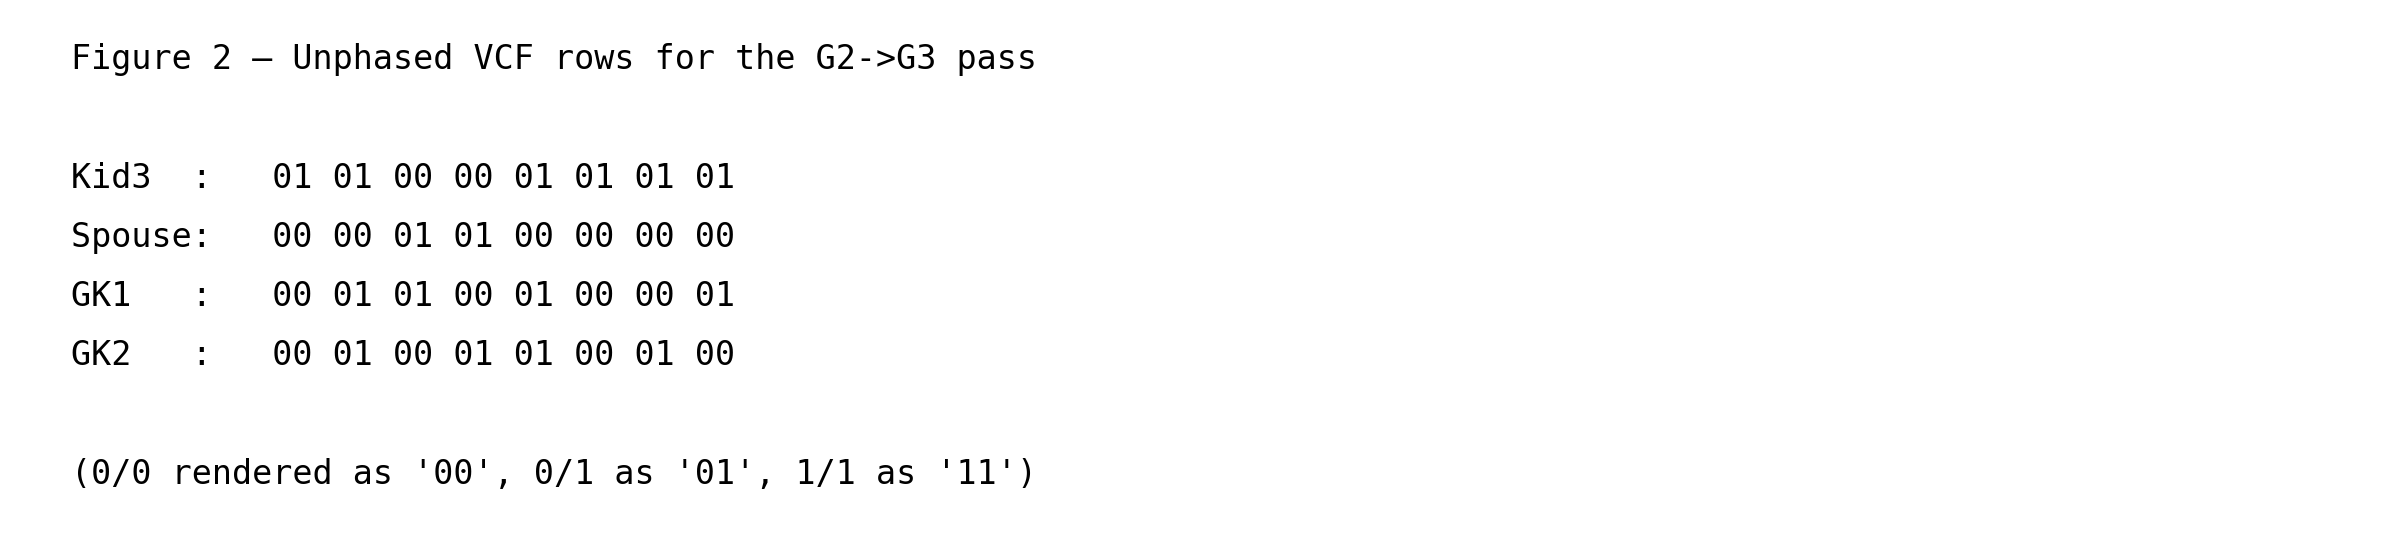
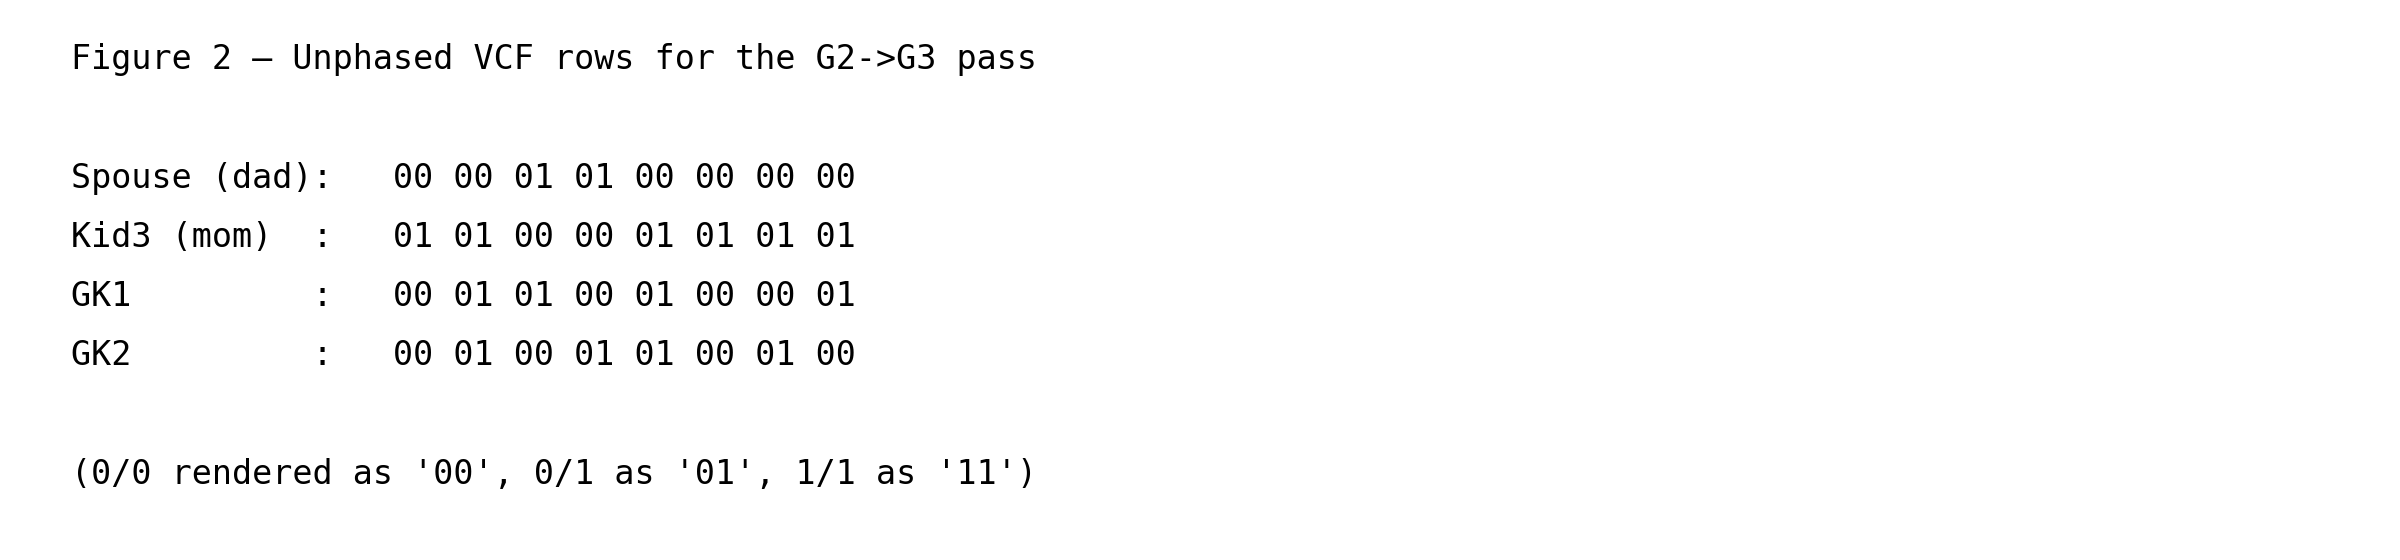
Reorder Figure 2 rows as Dad/Mom/GK1/GK2 in three_generations.md
Spouse contributes the grandchildren's paternal slot (E/F) and
Kid3 contributes the maternal slot, so Spouse is the dad and Kid3
is the mom. Put Spouse first and label the two parental rows
"Spouse (dad)" / "Kid3 (mom)" to match.

diff --git a/wiki/generate_wiki.py b/wiki/generate_wiki.py
@@ -2119,10 +2119,10 @@ def component_2_three_generations(out_dir: Path) -> None:
     body_2 = [
         "Figure 2 — Unphased VCF rows for the G2->G3 pass",
         "",
-        "Kid3  :   " + " ".join(_fmt_gt(g) for g in kid3_unphased),
-        "Spouse:   " + " ".join(_fmt_gt(g) for g in spouse_unphased),
-        "GK1   :   " + " ".join(_fmt_gt(g) for g in gk_unphased["GK1"]),
-        "GK2   :   " + " ".join(_fmt_gt(g) for g in gk_unphased["GK2"]),
+        "Spouse (dad):   " + " ".join(_fmt_gt(g) for g in spouse_unphased),
+        "Kid3 (mom)  :   " + " ".join(_fmt_gt(g) for g in kid3_unphased),
+        "GK1         :   " + " ".join(_fmt_gt(g) for g in gk_unphased["GK1"]),
+        "GK2         :   " + " ".join(_fmt_gt(g) for g in gk_unphased["GK2"]),
         "",
         "(0/0 rendered as '00', 0/1 as '01', 1/1 as '11')",
     ]

diff --git a/wiki/three_generations/three_generations.md b/wiki/three_generations/three_generations.md
@@ -12,7 +12,7 @@ become visible once a third generation is in the pedigree:
 1. `gtg-ped-map` does not have a separate "G2→G3 pass" bolted on top
    of a G1→G2 pass. The *one* operation on the nuclear-family page
    that really is a walk over the pedigree —
-   [`track_alleles_through_pedigree`](https://github.com/Platinum-Pedigree-Consortium/Platinum-Pedigree-Inheritance/blob/850d84268b52f29d19c3ca456c8e9816a4a45c0d/code/rust/src/bin/map_builder.rs#L295), which
+   [`track_alleles_through_pedigree`](https://github.com/Platinum-Pedigree-Consortium/Platinum-Pedigree-Inheritance/blob/fc39be653e81981f24a58895fc5f218ab98dff36/code/rust/src/bin/map_builder.rs#L295), which
    performs [Step 1](../nuclear_family/nuclear_family.md#3-informative-site-detection-founder-letter-tagging-and-haplotype-inference-within-a-linkage-block)
    (flag, per (parent, spouse, child) triple, the sites at which the
    parent is heterozygous and the spouse is homozygous — the sites
@@ -35,13 +35,13 @@ become visible once a third generation is in the pedigree:
 
    It is worth emphasising that the rest of the nuclear-family
    pipeline is **not** part of this walk. Sibship backfilling
-   ([`backfill_sibs`](https://github.com/Platinum-Pedigree-Consortium/Platinum-Pedigree-Inheritance/blob/850d84268b52f29d19c3ca456c8e9816a4a45c0d/code/rust/src/bin/map_builder.rs#L804)) runs once per VCF
+   ([`backfill_sibs`](https://github.com/Platinum-Pedigree-Consortium/Platinum-Pedigree-Inheritance/blob/fc39be653e81981f24a58895fc5f218ab98dff36/code/rust/src/bin/map_builder.rs#L804)) runs once per VCF
    record at the whole-family level, right after the walk, consuming
    its output. The flip pass
-   ([`perform_flips_in_place`](https://github.com/Platinum-Pedigree-Consortium/Platinum-Pedigree-Inheritance/blob/850d84268b52f29d19c3ca456c8e9816a4a45c0d/code/rust/src/bin/map_builder.rs#L702)), block collapse
-   ([`collapse_identical_iht`](https://github.com/Platinum-Pedigree-Consortium/Platinum-Pedigree-Inheritance/blob/850d84268b52f29d19c3ca456c8e9816a4a45c0d/code/rust/src/bin/map_builder.rs#L385)) and gap-fill
-   ([`fill_missing_values`](https://github.com/Platinum-Pedigree-Consortium/Platinum-Pedigree-Inheritance/blob/850d84268b52f29d19c3ca456c8e9816a4a45c0d/code/rust/src/bin/map_builder.rs#L617) then
-   [`fill_missing_values_by_neighbor`](https://github.com/Platinum-Pedigree-Consortium/Platinum-Pedigree-Inheritance/blob/850d84268b52f29d19c3ca456c8e9816a4a45c0d/code/rust/src/bin/map_builder.rs#L540)) are
+   ([`perform_flips_in_place`](https://github.com/Platinum-Pedigree-Consortium/Platinum-Pedigree-Inheritance/blob/fc39be653e81981f24a58895fc5f218ab98dff36/code/rust/src/bin/map_builder.rs#L702)), block collapse
+   ([`collapse_identical_iht`](https://github.com/Platinum-Pedigree-Consortium/Platinum-Pedigree-Inheritance/blob/fc39be653e81981f24a58895fc5f218ab98dff36/code/rust/src/bin/map_builder.rs#L385)) and gap-fill
+   ([`fill_missing_values`](https://github.com/Platinum-Pedigree-Consortium/Platinum-Pedigree-Inheritance/blob/fc39be653e81981f24a58895fc5f218ab98dff36/code/rust/src/bin/map_builder.rs#L617) then
+   [`fill_missing_values_by_neighbor`](https://github.com/Platinum-Pedigree-Consortium/Platinum-Pedigree-Inheritance/blob/fc39be653e81981f24a58895fc5f218ab98dff36/code/rust/src/bin/map_builder.rs#L540)) are
    run later still — in that execution order, with
    `perform_flips_in_place` invoked three times in total, once
    before collapse and again after each gap-fill step — as
@@ -62,9 +62,9 @@ become visible once a third generation is in the pedigree:
    that the ancestral transition appears in *both* while the de novo
    one appears in only *one*.
 
-All line numbers refer to commit `850d842`. As in the other
+All line numbers refer to commit `fc39be6`. As in the other
 walkthrough pages, each function link is followed by its call site in
-`main()` in [`map_builder.rs`](https://github.com/Platinum-Pedigree-Consortium/Platinum-Pedigree-Inheritance/blob/850d84268b52f29d19c3ca456c8e9816a4a45c0d/code/rust/src/bin/map_builder.rs#L989) so you can step
+`main()` in [`map_builder.rs`](https://github.com/Platinum-Pedigree-Consortium/Platinum-Pedigree-Inheritance/blob/fc39be653e81981f24a58895fc5f218ab98dff36/code/rust/src/bin/map_builder.rs#L989) so you can step
 through the driver source in parallel.
 
 The toy simulation spans 8 VCF sites. Everything below
@@ -89,7 +89,7 @@ founder, adding the **G2→G3** layer `(Kid3, Spouse) → {GK1, GK2}`.
 Kid1 and Kid2 are not shown in the genotype figures below, but they
 are still part of the pedigree the algorithm processes, and their
 presence is load-bearing: the [multi-child guard in
-`backfill_sibs`](https://github.com/Platinum-Pedigree-Consortium/Platinum-Pedigree-Inheritance/blob/850d84268b52f29d19c3ca456c8e9816a4a45c0d/code/rust/src/bin/map_builder.rs#L818) disables partition inference
+`backfill_sibs`](https://github.com/Platinum-Pedigree-Consortium/Platinum-Pedigree-Inheritance/blob/fc39be653e81981f24a58895fc5f218ab98dff36/code/rust/src/bin/map_builder.rs#L818) disables partition inference
 for single-child families, so Kid3's `A`/`B` paternal labels and `C`
 maternal label exist only because Kid1 and Kid2 anchor the partition
 at each G1-informative site. Pulling them out of the pedigree would
@@ -102,9 +102,9 @@ Transmission in the toy simulation:
   the nuclear-family page: paternal slot letter `A` on sites 0–3 and
   `B` on sites 4–7; maternal slot letter `C` throughout.
 - **Spouse**, a founder, is handed the fresh letter pair `(E, F)` by
-  [`Iht::new`](https://github.com/Platinum-Pedigree-Consortium/Platinum-Pedigree-Inheritance/blob/850d84268b52f29d19c3ca456c8e9816a4a45c0d/code/rust/src/iht.rs#L172) (driver calls at
-  [`map_builder.rs:1059`](https://github.com/Platinum-Pedigree-Consortium/Platinum-Pedigree-Inheritance/blob/850d84268b52f29d19c3ca456c8e9816a4a45c0d/code/rust/src/bin/map_builder.rs#L1059) for the master
-  template and [`map_builder.rs:1111`](https://github.com/Platinum-Pedigree-Consortium/Platinum-Pedigree-Inheritance/blob/850d84268b52f29d19c3ca456c8e9816a4a45c0d/code/rust/src/bin/map_builder.rs#L1111) per VCF
+  [`Iht::new`](https://github.com/Platinum-Pedigree-Consortium/Platinum-Pedigree-Inheritance/blob/fc39be653e81981f24a58895fc5f218ab98dff36/code/rust/src/iht.rs#L172) (driver calls at
+  [`map_builder.rs:1059`](https://github.com/Platinum-Pedigree-Consortium/Platinum-Pedigree-Inheritance/blob/fc39be653e81981f24a58895fc5f218ab98dff36/code/rust/src/bin/map_builder.rs#L1059) for the master
+  template and [`map_builder.rs:1111`](https://github.com/Platinum-Pedigree-Consortium/Platinum-Pedigree-Inheritance/blob/fc39be653e81981f24a58895fc5f218ab98dff36/code/rust/src/bin/map_builder.rs#L1111) per VCF
   site), identically to how Dad and Mom were handed `(A, B)` / `(C, D)`
   at the start of the nuclear-family walkthrough.
 - **GK1** inherits Spouse's `E` homolog on the paternal slot, plus a
@@ -128,11 +128,11 @@ and are not repeated here.
 ## 3. One ancestor-first walk, two triples
 
 The routine
-[`track_alleles_through_pedigree`](https://github.com/Platinum-Pedigree-Consortium/Platinum-Pedigree-Inheritance/blob/850d84268b52f29d19c3ca456c8e9816a4a45c0d/code/rust/src/bin/map_builder.rs#L295) (driver call
-at [`map_builder.rs:1116`](https://github.com/Platinum-Pedigree-Consortium/Platinum-Pedigree-Inheritance/blob/850d84268b52f29d19c3ca456c8e9816a4a45c0d/code/rust/src/bin/map_builder.rs#L1116)) is called once
+[`track_alleles_through_pedigree`](https://github.com/Platinum-Pedigree-Consortium/Platinum-Pedigree-Inheritance/blob/fc39be653e81981f24a58895fc5f218ab98dff36/code/rust/src/bin/map_builder.rs#L295) (driver call
+at [`map_builder.rs:1116`](https://github.com/Platinum-Pedigree-Consortium/Platinum-Pedigree-Inheritance/blob/fc39be653e81981f24a58895fc5f218ab98dff36/code/rust/src/bin/map_builder.rs#L1116)) is called once
 per VCF record and walks every (parent, spouse, child) triple in
 ancestor-first depth order given by
-[`family.get_individual_depths()`](https://github.com/Platinum-Pedigree-Consortium/Platinum-Pedigree-Inheritance/blob/850d84268b52f29d19c3ca456c8e9816a4a45c0d/code/rust/src/ped.rs#L155).
+[`family.get_individual_depths()`](https://github.com/Platinum-Pedigree-Consortium/Platinum-Pedigree-Inheritance/blob/fc39be653e81981f24a58895fc5f218ab98dff36/code/rust/src/ped.rs#L155).
 
 *Depth order* here means: every founder has depth 0, and every
 non-founder has depth one greater than the deeper of its two
@@ -143,7 +143,7 @@ the list of individuals sorted by depth ascending (ties broken
 alphabetically by ID). Iterating triples in
 that order guarantees that when a triple `(P, S) → {C ...}` is
 visited, both `P` and `S` have already been handled — either as
-founders whose slot pairs were pre-filled by [`Iht::new`](https://github.com/Platinum-Pedigree-Consortium/Platinum-Pedigree-Inheritance/blob/850d84268b52f29d19c3ca456c8e9816a4a45c0d/code/rust/src/iht.rs#L172),
+founders whose slot pairs were pre-filled by [`Iht::new`](https://github.com/Platinum-Pedigree-Consortium/Platinum-Pedigree-Inheritance/blob/fc39be653e81981f24a58895fc5f218ab98dff36/code/rust/src/iht.rs#L172),
 or as children of a shallower triple whose letters were written by
 a previous iteration — so their slot pairs already hold the
 letters the current triple needs to read. For this pedigree the
@@ -161,12 +161,12 @@ GK1 = GK2 = 2, and the walk visits two triples in this order:
 The only thing that changes between the two triples is whose slot
 pair `find_valid_char` / `get_iht_markers` reads when tagging
 carriers. In the first triple it reads Dad's `(A, B)` and Mom's
-`(C, D)` — static founder pairs that [`Iht::new`](https://github.com/Platinum-Pedigree-Consortium/Platinum-Pedigree-Inheritance/blob/850d84268b52f29d19c3ca456c8e9816a4a45c0d/code/rust/src/iht.rs#L172)
+`(C, D)` — static founder pairs that [`Iht::new`](https://github.com/Platinum-Pedigree-Consortium/Platinum-Pedigree-Inheritance/blob/fc39be653e81981f24a58895fc5f218ab98dff36/code/rust/src/iht.rs#L172)
 pre-filled at startup. In the second it reads *Kid3's* slot pair,
-which [`track_alleles_through_pedigree`](https://github.com/Platinum-Pedigree-Consortium/Platinum-Pedigree-Inheritance/blob/850d84268b52f29d19c3ca456c8e9816a4a45c0d/code/rust/src/bin/map_builder.rs#L295) itself
-wrote during the first triple. [`get_iht_markers`](https://github.com/Platinum-Pedigree-Consortium/Platinum-Pedigree-Inheritance/blob/850d84268b52f29d19c3ca456c8e9816a4a45c0d/code/rust/src/bin/map_builder.rs#L274)
+which [`track_alleles_through_pedigree`](https://github.com/Platinum-Pedigree-Consortium/Platinum-Pedigree-Inheritance/blob/fc39be653e81981f24a58895fc5f218ab98dff36/code/rust/src/bin/map_builder.rs#L295) itself
+wrote during the first triple. [`get_iht_markers`](https://github.com/Platinum-Pedigree-Consortium/Platinum-Pedigree-Inheritance/blob/fc39be653e81981f24a58895fc5f218ab98dff36/code/rust/src/bin/map_builder.rs#L274)
 (called from inside the walk at
-[`map_builder.rs:328`](https://github.com/Platinum-Pedigree-Consortium/Platinum-Pedigree-Inheritance/blob/850d84268b52f29d19c3ca456c8e9816a4a45c0d/code/rust/src/bin/map_builder.rs#L328)) is what reads it back
+[`map_builder.rs:328`](https://github.com/Platinum-Pedigree-Consortium/Platinum-Pedigree-Inheritance/blob/fc39be653e81981f24a58895fc5f218ab98dff36/code/rust/src/bin/map_builder.rs#L328)) is what reads it back
 for the second triple.
 
 One point worth stating explicitly before moving on: **non-founder
@@ -183,10 +183,10 @@ classical inheritance vector of Lander & Green.)
 Figure 3 shows the letters written on the two grandchildren's
 slots at the **informative sites only** (non-informative sites are
 rendered as `.`). This is the state of the `Iht` grid for triple 2
-after [`track_alleles_through_pedigree`](https://github.com/Platinum-Pedigree-Consortium/Platinum-Pedigree-Inheritance/blob/850d84268b52f29d19c3ca456c8e9816a4a45c0d/code/rust/src/bin/map_builder.rs#L295) has
+after [`track_alleles_through_pedigree`](https://github.com/Platinum-Pedigree-Consortium/Platinum-Pedigree-Inheritance/blob/fc39be653e81981f24a58895fc5f218ab98dff36/code/rust/src/bin/map_builder.rs#L295) has
 tagged the carrier homolog at each informative site (Step 2 of
 [nuclear_family §3](../nuclear_family/nuclear_family.md#3-informative-site-detection-founder-letter-tagging-and-haplotype-inference-within-a-linkage-block))
-*and* [`backfill_sibs`](https://github.com/Platinum-Pedigree-Consortium/Platinum-Pedigree-Inheritance/blob/850d84268b52f29d19c3ca456c8e9816a4a45c0d/code/rust/src/bin/map_builder.rs#L804) has written the
+*and* [`backfill_sibs`](https://github.com/Platinum-Pedigree-Consortium/Platinum-Pedigree-Inheritance/blob/fc39be653e81981f24a58895fc5f218ab98dff36/code/rust/src/bin/map_builder.rs#L804) has written the
 parent's other letter onto the non-carrier grandchild (Step 3a).
 That is why, at every Spouse-informative site, both `E` and `F`
 appear — one tagged directly as the carrier of Spouse's unique
@@ -212,12 +212,12 @@ indicator rows mark:
   fixed `(C, D)`).
 
 Everything after Step 2 runs *outside* the triple walk and is not
-re-walked here. [`backfill_sibs`](https://github.com/Platinum-Pedigree-Consortium/Platinum-Pedigree-Inheritance/blob/850d84268b52f29d19c3ca456c8e9816a4a45c0d/code/rust/src/bin/map_builder.rs#L804) is applied
+re-walked here. [`backfill_sibs`](https://github.com/Platinum-Pedigree-Consortium/Platinum-Pedigree-Inheritance/blob/fc39be653e81981f24a58895fc5f218ab98dff36/code/rust/src/bin/map_builder.rs#L804) is applied
 once per VCF record to the full family `Iht` after
-[`track_alleles_through_pedigree`](https://github.com/Platinum-Pedigree-Consortium/Platinum-Pedigree-Inheritance/blob/850d84268b52f29d19c3ca456c8e9816a4a45c0d/code/rust/src/bin/map_builder.rs#L295) returns;
+[`track_alleles_through_pedigree`](https://github.com/Platinum-Pedigree-Consortium/Platinum-Pedigree-Inheritance/blob/fc39be653e81981f24a58895fc5f218ab98dff36/code/rust/src/bin/map_builder.rs#L295) returns;
 the per-site flip pass in
-[`perform_flips_in_place`](https://github.com/Platinum-Pedigree-Consortium/Platinum-Pedigree-Inheritance/blob/850d84268b52f29d19c3ca456c8e9816a4a45c0d/code/rust/src/bin/map_builder.rs#L702) and block collapse
-in [`collapse_identical_iht`](https://github.com/Platinum-Pedigree-Consortium/Platinum-Pedigree-Inheritance/blob/850d84268b52f29d19c3ca456c8e9816a4a45c0d/code/rust/src/bin/map_builder.rs#L385) (together with
+[`perform_flips_in_place`](https://github.com/Platinum-Pedigree-Consortium/Platinum-Pedigree-Inheritance/blob/fc39be653e81981f24a58895fc5f218ab98dff36/code/rust/src/bin/map_builder.rs#L702) and block collapse
+in [`collapse_identical_iht`](https://github.com/Platinum-Pedigree-Consortium/Platinum-Pedigree-Inheritance/blob/fc39be653e81981f24a58895fc5f218ab98dff36/code/rust/src/bin/map_builder.rs#L385) (together with
 the two gap-fills discussed in §5) run later still, as global
 passes over the pooled record-by-individual grid. Adding triple 2
 to the pedigree widens that grid by two rows (GK1, GK2) and leaves
@@ -261,8 +261,8 @@ The Rust pipeline stores it per-individual rather than
 concatenated because that lay-out makes the (parent, spouse,
 child) triple a natural unit of work, and because the cross-site
 post-processing passes
-([`collapse_identical_iht`](https://github.com/Platinum-Pedigree-Consortium/Platinum-Pedigree-Inheritance/blob/850d84268b52f29d19c3ca456c8e9816a4a45c0d/code/rust/src/bin/map_builder.rs#L385), the two gap-fills,
-and [`perform_flips_in_place`](https://github.com/Platinum-Pedigree-Consortium/Platinum-Pedigree-Inheritance/blob/850d84268b52f29d19c3ca456c8e9816a4a45c0d/code/rust/src/bin/map_builder.rs#L702)) run
+([`collapse_identical_iht`](https://github.com/Platinum-Pedigree-Consortium/Platinum-Pedigree-Inheritance/blob/fc39be653e81981f24a58895fc5f218ab98dff36/code/rust/src/bin/map_builder.rs#L385), the two gap-fills,
+and [`perform_flips_in_place`](https://github.com/Platinum-Pedigree-Consortium/Platinum-Pedigree-Inheritance/blob/fc39be653e81981f24a58895fc5f218ab98dff36/code/rust/src/bin/map_builder.rs#L702)) run
 per-individual-column across records. The underlying object is
 the same.
 
@@ -292,7 +292,7 @@ model. Per site, §3's triple walk deduces the inheritance vector
 *deterministically* from Mendelian rules: the unique child
 carrying the parent's rare allele is the carrier, its
 informative-slot letter is fixed, and
-[`backfill_sibs`](https://github.com/Platinum-Pedigree-Consortium/Platinum-Pedigree-Inheritance/blob/850d84268b52f29d19c3ca456c8e9816a4a45c0d/code/rust/src/bin/map_builder.rs#L804) writes the parent's other
+[`backfill_sibs`](https://github.com/Platinum-Pedigree-Consortium/Platinum-Pedigree-Inheritance/blob/fc39be653e81981f24a58895fc5f218ab98dff36/code/rust/src/bin/map_builder.rs#L804) writes the parent's other
 letter on the non-carriers. No emission probabilities; no
 integration over founder alleles. Across sites, the
 flip / collapse / gap-fill pipeline (listed at the end of §3)
@@ -315,18 +315,18 @@ done with them.
 
 As emphasised in the intro, the flip, block-collapse and gap-fill
 routines — in driver-call order,
-[`perform_flips_in_place`](https://github.com/Platinum-Pedigree-Consortium/Platinum-Pedigree-Inheritance/blob/850d84268b52f29d19c3ca456c8e9816a4a45c0d/code/rust/src/bin/map_builder.rs#L702) (at
-[`map_builder.rs:1135`](https://github.com/Platinum-Pedigree-Consortium/Platinum-Pedigree-Inheritance/blob/850d84268b52f29d19c3ca456c8e9816a4a45c0d/code/rust/src/bin/map_builder.rs#L1135)),
-[`collapse_identical_iht`](https://github.com/Platinum-Pedigree-Consortium/Platinum-Pedigree-Inheritance/blob/850d84268b52f29d19c3ca456c8e9816a4a45c0d/code/rust/src/bin/map_builder.rs#L385) (at
-[`map_builder.rs:1191`](https://github.com/Platinum-Pedigree-Consortium/Platinum-Pedigree-Inheritance/blob/850d84268b52f29d19c3ca456c8e9816a4a45c0d/code/rust/src/bin/map_builder.rs#L1191)),
+[`perform_flips_in_place`](https://github.com/Platinum-Pedigree-Consortium/Platinum-Pedigree-Inheritance/blob/fc39be653e81981f24a58895fc5f218ab98dff36/code/rust/src/bin/map_builder.rs#L702) (at
+[`map_builder.rs:1135`](https://github.com/Platinum-Pedigree-Consortium/Platinum-Pedigree-Inheritance/blob/fc39be653e81981f24a58895fc5f218ab98dff36/code/rust/src/bin/map_builder.rs#L1135)),
+[`collapse_identical_iht`](https://github.com/Platinum-Pedigree-Consortium/Platinum-Pedigree-Inheritance/blob/fc39be653e81981f24a58895fc5f218ab98dff36/code/rust/src/bin/map_builder.rs#L385) (at
+[`map_builder.rs:1191`](https://github.com/Platinum-Pedigree-Consortium/Platinum-Pedigree-Inheritance/blob/fc39be653e81981f24a58895fc5f218ab98dff36/code/rust/src/bin/map_builder.rs#L1191)),
 `perform_flips_in_place` again (at
-[`map_builder.rs:1193`](https://github.com/Platinum-Pedigree-Consortium/Platinum-Pedigree-Inheritance/blob/850d84268b52f29d19c3ca456c8e9816a4a45c0d/code/rust/src/bin/map_builder.rs#L1193)),
-[`fill_missing_values`](https://github.com/Platinum-Pedigree-Consortium/Platinum-Pedigree-Inheritance/blob/850d84268b52f29d19c3ca456c8e9816a4a45c0d/code/rust/src/bin/map_builder.rs#L617) (at
-[`map_builder.rs:1200`](https://github.com/Platinum-Pedigree-Consortium/Platinum-Pedigree-Inheritance/blob/850d84268b52f29d19c3ca456c8e9816a4a45c0d/code/rust/src/bin/map_builder.rs#L1200)),
-[`fill_missing_values_by_neighbor`](https://github.com/Platinum-Pedigree-Consortium/Platinum-Pedigree-Inheritance/blob/850d84268b52f29d19c3ca456c8e9816a4a45c0d/code/rust/src/bin/map_builder.rs#L540) (at
-[`map_builder.rs:1201`](https://github.com/Platinum-Pedigree-Consortium/Platinum-Pedigree-Inheritance/blob/850d84268b52f29d19c3ca456c8e9816a4a45c0d/code/rust/src/bin/map_builder.rs#L1201)), and
+[`map_builder.rs:1193`](https://github.com/Platinum-Pedigree-Consortium/Platinum-Pedigree-Inheritance/blob/fc39be653e81981f24a58895fc5f218ab98dff36/code/rust/src/bin/map_builder.rs#L1193)),
+[`fill_missing_values`](https://github.com/Platinum-Pedigree-Consortium/Platinum-Pedigree-Inheritance/blob/fc39be653e81981f24a58895fc5f218ab98dff36/code/rust/src/bin/map_builder.rs#L617) (at
+[`map_builder.rs:1200`](https://github.com/Platinum-Pedigree-Consortium/Platinum-Pedigree-Inheritance/blob/fc39be653e81981f24a58895fc5f218ab98dff36/code/rust/src/bin/map_builder.rs#L1200)),
+[`fill_missing_values_by_neighbor`](https://github.com/Platinum-Pedigree-Consortium/Platinum-Pedigree-Inheritance/blob/fc39be653e81981f24a58895fc5f218ab98dff36/code/rust/src/bin/map_builder.rs#L540) (at
+[`map_builder.rs:1201`](https://github.com/Platinum-Pedigree-Consortium/Platinum-Pedigree-Inheritance/blob/fc39be653e81981f24a58895fc5f218ab98dff36/code/rust/src/bin/map_builder.rs#L1201)), and
 `perform_flips_in_place` once more (at
-[`map_builder.rs:1203`](https://github.com/Platinum-Pedigree-Consortium/Platinum-Pedigree-Inheritance/blob/850d84268b52f29d19c3ca456c8e9816a4a45c0d/code/rust/src/bin/map_builder.rs#L1203)) — are **not** part
+[`map_builder.rs:1203`](https://github.com/Platinum-Pedigree-Consortium/Platinum-Pedigree-Inheritance/blob/fc39be653e81981f24a58895fc5f218ab98dff36/code/rust/src/bin/map_builder.rs#L1203)) — are **not** part
 of the ancestor-first walk. They run as global passes across the
 whole record-by-individual grid, see GK1 and GK2 as two additional
 rows alongside every other individual, and produce Figure 4 without
@@ -357,8 +357,8 @@ is the point of this page:
 
 The same raw emission rule — one row of `{prefix}.recombinants.txt`
 per letter transition per child per slot — governs both, via
-[`summarize_child_changes`](https://github.com/Platinum-Pedigree-Consortium/Platinum-Pedigree-Inheritance/blob/850d84268b52f29d19c3ca456c8e9816a4a45c0d/code/rust/src/bin/map_builder.rs#L673) (driver call at
-[`map_builder.rs:1228`](https://github.com/Platinum-Pedigree-Consortium/Platinum-Pedigree-Inheritance/blob/850d84268b52f29d19c3ca456c8e9816a4a45c0d/code/rust/src/bin/map_builder.rs#L1228)). But that rule does
+[`summarize_child_changes`](https://github.com/Platinum-Pedigree-Consortium/Platinum-Pedigree-Inheritance/blob/fc39be653e81981f24a58895fc5f218ab98dff36/code/rust/src/bin/map_builder.rs#L673) (driver call at
+[`map_builder.rs:1228`](https://github.com/Platinum-Pedigree-Consortium/Platinum-Pedigree-Inheritance/blob/fc39be653e81981f24a58895fc5f218ab98dff36/code/rust/src/bin/map_builder.rs#L1228)). But that rule does
 not know which meiosis produced which transition. For this pedigree
 the counts come out:
 
@@ -493,9 +493,9 @@ G1-informative region for the relevant parent slot, leaving the
 parent's per-site letter genuinely unknown at that site. The Rust
 pipeline handles this by extending Kid3's letter trace across
 non-informative G1 sites via block continuity — exactly the job
-[`collapse_identical_iht`](https://github.com/Platinum-Pedigree-Consortium/Platinum-Pedigree-Inheritance/blob/850d84268b52f29d19c3ca456c8e9816a4a45c0d/code/rust/src/bin/map_builder.rs#L385),
-[`fill_missing_values`](https://github.com/Platinum-Pedigree-Consortium/Platinum-Pedigree-Inheritance/blob/850d84268b52f29d19c3ca456c8e9816a4a45c0d/code/rust/src/bin/map_builder.rs#L617), and
-[`fill_missing_values_by_neighbor`](https://github.com/Platinum-Pedigree-Consortium/Platinum-Pedigree-Inheritance/blob/850d84268b52f29d19c3ca456c8e9816a4a45c0d/code/rust/src/bin/map_builder.rs#L540) do before
+[`collapse_identical_iht`](https://github.com/Platinum-Pedigree-Consortium/Platinum-Pedigree-Inheritance/blob/fc39be653e81981f24a58895fc5f218ab98dff36/code/rust/src/bin/map_builder.rs#L385),
+[`fill_missing_values`](https://github.com/Platinum-Pedigree-Consortium/Platinum-Pedigree-Inheritance/blob/fc39be653e81981f24a58895fc5f218ab98dff36/code/rust/src/bin/map_builder.rs#L617), and
+[`fill_missing_values_by_neighbor`](https://github.com/Platinum-Pedigree-Consortium/Platinum-Pedigree-Inheritance/blob/fc39be653e81981f24a58895fc5f218ab98dff36/code/rust/src/bin/map_builder.rs#L540) do before
 triple 2's carrier test reads those letters.
 
 So the *partition* information is still fully recoverable by
@@ -504,5 +504,5 @@ depth; what generalises less cleanly is the *labelling* step
 (§6.3), which needs the chained per-site letter trace of every
 non-founder parent. That asymmetry is why `gtg-ped-map` keeps Latin
 letters as its first-class representation and propagates them
-recursively through [`get_iht_markers`](https://github.com/Platinum-Pedigree-Consortium/Platinum-Pedigree-Inheritance/blob/850d84268b52f29d19c3ca456c8e9816a4a45c0d/code/rust/src/bin/map_builder.rs#L274), rather
+recursively through [`get_iht_markers`](https://github.com/Platinum-Pedigree-Consortium/Platinum-Pedigree-Inheritance/blob/fc39be653e81981f24a58895fc5f218ab98dff36/code/rust/src/bin/map_builder.rs#L274), rather
 than recomputing them from alleles at each generation.
